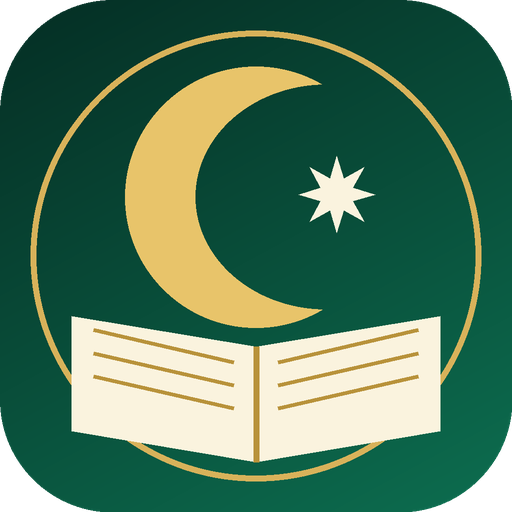
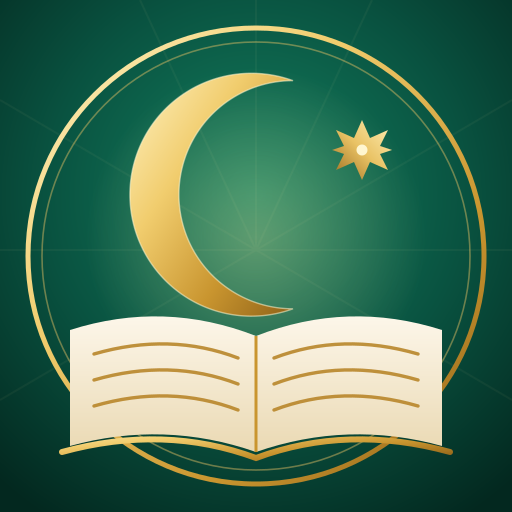
প্রগ্রেস বারের ভেতরে বাকি সময়ের কাউন্টডাউন; নতুন প্রাকৃতিক সূর্যোদয়/সূর্যাস্ত আইকন; লোগো-নামের বার সব পাতায় এক; নতুন প্রিমিয়াম অ্যাপ আইকন; ক্যাশ v139

diff --git a/widget.js b/widget.js
@@ -203,12 +203,12 @@
     ".drw-b{display:flex;align-items:center;gap:8px;margin-top:6px;font-size:11px;color:#3B4A55}" +
     ".drw-b span{white-space:nowrap}" +
     ".drw-p+.drw-r{margin-top:8px}" +
-    ".drw-bar{flex:1;height:8px;border-radius:4px;background:#C9D3DA;overflow:hidden}" +
-    ".drw-bar u{display:block;height:100%;background:linear-gradient(90deg,#16794c,#2bb583);border-radius:4px;text-decoration:none}" +
+    ".drw-bar{position:relative;flex:1;height:14px;border-radius:7px;background:#8FA39A;overflow:hidden}.drw-bar em{position:absolute;inset:0;display:flex;align-items:center;justify-content:center;font-style:normal;font-size:9px;font-weight:800;color:#fff;text-shadow:0 1px 2px rgba(0,0,0,.4);white-space:nowrap;line-height:1}" +
+    ".drw-bar u{display:block;height:100%;background:linear-gradient(90deg,#16794c,#2bb583);border-radius:7px;text-decoration:none}" +
     "@media (prefers-color-scheme:dark){.drw{background:#16211c;color:#e8f0ea}.drw-pin{background:#1f2e27;border-color:#2a4034;color:#9fd8bd}.drw-sun,.drw-time span,.drw-loc,.drw-upd,.drw-d,.drw-c i,.drw-b{color:#b3c9bb}.drw-c.on{background:#1f4a39}.drw-bar{background:#2a4034}}";
 
-  var SUNRISE = '<svg viewBox="0 0 24 24" aria-hidden="true"><path d="M12 2.2v2.6M5 5.6l1.8 1.8M19 5.6l-1.8 1.8M2.4 11.5H5M19 11.5h2.6" stroke="#FFB300" stroke-width="1.7" stroke-linecap="round" fill="none"/><circle cx="12" cy="13" r="5.5" fill="#FFC21A"/><path d="M2 15.5q2.5-2.2 5 0t5 0t5 0t5 0V22H2z" fill="#1E88E5"/><path d="M2 15.5q2.5-2.2 5 0t5 0t5 0t5 0" stroke="#8FD0FF" stroke-width="1" fill="none"/><path d="M9 18.3h6M10.5 20.5h3" stroke="#FFD97A" stroke-width="1.3" stroke-linecap="round"/></svg>';
-  var SUNSET = '<svg viewBox="0 0 24 24" aria-hidden="true"><path d="M12 2.2v2.6M5 5.6l1.8 1.8M19 5.6l-1.8 1.8M2.4 11.5H5M19 11.5h2.6" stroke="#FF7043" stroke-width="1.7" stroke-linecap="round" fill="none"/><circle cx="12" cy="13" r="5.5" fill="#FF6D3A"/><path d="M2 15.5q2.5-2.2 5 0t5 0t5 0t5 0V22H2z" fill="#1E88E5"/><path d="M2 15.5q2.5-2.2 5 0t5 0t5 0t5 0" stroke="#8FD0FF" stroke-width="1" fill="none"/><path d="M9 18.3h6M10.5 20.5h3" stroke="#FFB59A" stroke-width="1.3" stroke-linecap="round"/></svg>';
+  var SUNRISE = '<svg viewBox="0 0 24 24" aria-hidden="true"><path d="M12,4.2L12,7.2M6.3,9.8L4.2,7.7M17.7,9.8L19.8,7.7M4.5,12.8L2,11.9M19.5,12.8L22,11.9" stroke="#FFA000" stroke-width="1.7" stroke-linecap="round" fill="none"/><path d="M7,15.5A5,5 0 0,1 17,15.5Z" fill="#FFB300"/><path d="M9.2,15.5A2.8,2.8 0 0,1 14.8,15.5Z" fill="#FFE082"/><path d="M2,15.5H22" stroke="#8D6E63" stroke-width="1.4" stroke-linecap="round" fill="none"/><path d="M7,18.2H17M9.5,20.4H14.5" stroke="#FFCA28" stroke-width="1.3" stroke-linecap="round" fill="none"/></svg>';
+  var SUNSET = '<svg viewBox="0 0 24 24" aria-hidden="true"><path d="M12,4.2L12,7.2M6.3,9.8L4.2,7.7M17.7,9.8L19.8,7.7M4.5,12.8L2,11.9M19.5,12.8L22,11.9" stroke="#FF7043" stroke-width="1.7" stroke-linecap="round" fill="none"/><path d="M7,15.5A5,5 0 0,1 17,15.5Z" fill="#FF5722"/><path d="M9.2,15.5A2.8,2.8 0 0,1 14.8,15.5Z" fill="#FF8A65"/><path d="M2,15.5H22" stroke="#6D4C41" stroke-width="1.4" stroke-linecap="round" fill="none"/><path d="M7,18.2H17M9.5,20.4H14.5" stroke="#FF8A65" stroke-width="1.3" stroke-linecap="round" fill="none"/></svg>';
 
   function mount(el) {
     if (!el || el.getAttribute("data-drw")) return;
@@ -250,12 +250,14 @@
       var idx = Math.max(0, Math.min(4, shown));
       var bs = nf ? nf.start : s.ws[idx], be = nf ? nf.end : s.we[idx];
       var frac = Math.max(0, Math.min(1, (s.nowMin - bs) / Math.max(1, be - bs)));
+      var left = Math.ceil(Math.max(0, be - s.nowMin)), lh = Math.floor(left / 60), lm = left % 60;
+      var cd = "\u2212" + (lh > 0 ? bn(lh) + "ঘ " : "") + bn(lm) + "মি";
       var cells = "";
       for (var i = 0; i < 5; i++)
         cells += '<div class="drw-c' + (i === s.cur ? " on" : "") + '" data-i="' + i + '"><i>' + NAMES[i] + "</i><b>" + fmt(s.m[i]) + "</b></div>";
       el.innerHTML =
         '<div class="drw"><div class="drw-r"><span class="drw-sun">' + SUNRISE + "সূর্যোদয় " + fmt(s.sunrise) + '</span>' + '<button class="drw-pin" type="button" data-pin="1">📲 হোম স্ক্রিনে<br>বসান</button>' + '<span class="drw-sun">' + SUNSET + "সূর্যাস্ত " + fmt(s.sunset) + "</span></div>" +
-        '<div class="drw-b"><span>' + (nf ? nf.name + " শুরু " : "ওয়াক্ত শুরু ") + fmt(bs) + '</span><div class="drw-bar"><u style="width:' + (frac * 100).toFixed(1) + '%"></u></div><span>' + (nf ? "শেষ " : "ওয়াক্ত শেষ ") + fmt(be) + "</span></div>" +
+        '<div class="drw-b"><span>' + (nf ? nf.name + " শুরু " : "ওয়াক্ত শুরু ") + fmt(bs) + '</span><div class="drw-bar"><u style="width:' + (frac * 100).toFixed(1) + '%"></u><em>' + cd + '</em></div><span>' + (nf ? "শেষ " : "ওয়াক্ত শেষ ") + fmt(be) + "</span></div>" +
         '<div class="drw-p">' + cells + "</div>" +
         '<div class="drw-r"><div class="drw-time"><b>' + hh + ":" + mm + "</b><span>" + (now.getHours() < 12 ? "AM" : "PM") + "</span></div>" +
         '<div class="drw-en"><b>' + en + '</b><div class="drw-lr"><button class="drw-loc" type="button" data-loc="1">' + placeName(loc) + '</button><button class="drw-upd" type="button" data-upd="1">' + (updBusy ? "হচ্ছে…" : "আপডেট<br>লোকেশন") + "</button></div></div></div>" +

diff --git a/sw.js b/sw.js
@@ -1,7 +1,7 @@
-const V="dr-shell-v138";
+const V="dr-shell-v139";
 // ডেইলি রুকিয়া — অফলাইনে অ্যাপ খোলার জন্য। আয়াতের বড় ডেটা অ্যাপ নিজেই (Cache API "rs-…") জমা রাখে, তাই এখানে শুধু অ্যাপের কাঠামো।
 
-const SHELL=["./","index.html","style.css?v=35","app.js?v=42","home.js?v=3","alarm.js?v=4","amol.js?v=5","data/amol-guide.json?v=5","symptom.js?v=3","widget.js?v=13","boot.js?v=5","manifest.webmanifest","icons/icon-192.png","icons/icon-512.png","fonts/amiri-arabic-400-normal.woff2","fonts/amiri-arabic-700-normal.woff2","fonts/scheherazade-new-arabic-400-normal.woff2","fonts/scheherazade-new-arabic-700-normal.woff2","data/lame.min.js?v=1","data/hadith-norm.js?v=2","data/hadith.js?v=15"];
+const SHELL=["./","index.html","style.css?v=36","app.js?v=42","home.js?v=3","alarm.js?v=4","amol.js?v=5","data/amol-guide.json?v=5","symptom.js?v=3","widget.js?v=14","boot.js?v=5","manifest.webmanifest","icons/icon-192.png","icons/icon-512.png","fonts/amiri-arabic-400-normal.woff2","fonts/amiri-arabic-700-normal.woff2","fonts/scheherazade-new-arabic-400-normal.woff2","fonts/scheherazade-new-arabic-700-normal.woff2","data/lame.min.js?v=1","data/hadith-norm.js?v=2","data/hadith.js?v=15"];
 self.addEventListener("install",e=>{e.waitUntil(caches.open(V).then(c=>c.addAll(SHELL)).then(()=>self.skipWaiting()))});
 self.addEventListener("activate",e=>{e.waitUntil(caches.keys().then(ks=>Promise.all(ks.filter(k=>k.startsWith("dr-shell-")&&k!==V).map(k=>caches.delete(k)))).then(()=>self.clients.claim()))});
 self.addEventListener("fetch",e=>{

diff --git a/style.css b/style.css
@@ -18,10 +18,11 @@ button,input,select{font-family:inherit}
  .rs-bar{box-shadow:0 6px 22px rgba(0,0,0,.4)!important}
 }
 /* ---------- উপরের বার ---------- */
-.dr-top{position:sticky;top:0;z-index:30;padding:env(safe-area-inset-top) 0 0;background:linear-gradient(160deg,#052e24 0%,#0a5240 60%,#0d6650 100%);color:#fff;border-radius:0 0 30px 30px;box-shadow:0 1px 0 rgba(216,178,90,.55),0 10px 24px -10px rgba(5,46,36,.6)}
-body.is-home .dr-top{position:relative;padding-bottom:0;background:none;box-shadow:none;border-radius:0}
+.dr-top{position:sticky;top:0;z-index:30;padding:env(safe-area-inset-top) 0 0;background:none;box-shadow:none;border-radius:0;color:#fff}
+body.is-home .dr-top{position:relative}
 body.is-home #drWidget .drw{border-radius:24px 24px 0 0}
-body.is-home .dr-brand{box-sizing:border-box;width:calc(100% - 24px);max-width:660px;margin:0 auto;background:linear-gradient(160deg,#052e24 0%,#0a5240 60%,#0d6650 100%);border-radius:0 0 24px 24px;box-shadow:0 8px 18px -10px rgba(5,46,36,.6)}
+/* লোগো-নামের বার সব পাতায় হুবহু এক */
+.dr-brand{box-sizing:border-box;width:calc(100% - 24px);max-width:660px;margin:0 auto;background:linear-gradient(160deg,#052e24 0%,#0a5240 60%,#0d6650 100%);border-radius:0 0 24px 24px;box-shadow:0 8px 18px -10px rgba(5,46,36,.6)}
 #drWidget{padding:0 12px}
 .dr-menu{flex:none;width:44px;height:44px;border:0;border-radius:14px;background:rgba(255,255,255,.08);color:#fff;display:flex;align-items:center;justify-content:center;cursor:pointer;transition:background .15s}
 .dr-menu:active{background:rgba(255,255,255,.2)}

diff --git a/native/widget/kotlin/ClockWidget.kt b/native/widget/kotlin/ClockWidget.kt
@@ -221,6 +221,13 @@ class ClockWidget : AppWidgetProvider() {
             rv.setTextViewText(R.id.zz_we, (if (nf != null) "শেষ " else "ওয়াক্ত শেষ ") + Prayer.fmt(be, c.bnDigits))
             size(R.id.zz_ws, 11f); size(R.id.zz_we, 11f)
             rv.setProgressBar(R.id.zz_wbar, 1000, (frac * 1000).toInt(), false)
+            // বারের ভেতরে বাকি সময়: ১ ঘণ্টার বেশি হলে "−১ঘ ২৩মি", নইলে "−২৩মি"
+            val left = Math.ceil((be - s.nowMin).coerceAtLeast(0.0)).toInt()
+            val lh = left / 60
+            val lm = left % 60
+            val cd = if (lh > 0) "−" + Prayer.fmtNum(lh, c.bnDigits) + "ঘ " + Prayer.fmtNum(lm, c.bnDigits) + "মি" else "−" + Prayer.fmtNum(lm, c.bnDigits) + "মি"
+            rv.setTextViewText(R.id.zz_cd, cd)
+            size(R.id.zz_cd, 9f)
             val open = PendingIntent.getActivity(
                 ctx, 0, Intent(ctx, MainActivity::class.java), PendingIntent.FLAG_IMMUTABLE or PendingIntent.FLAG_UPDATE_CURRENT
             )

diff --git a/index.html b/index.html
@@ -12,7 +12,7 @@
 <meta name="mobile-web-app-capable" content="yes">
 <meta name="apple-mobile-web-app-capable" content="yes">
 <meta name="apple-mobile-web-app-title" content="Daily Ruqyah">
-<link rel="stylesheet" href="style.css?v=35">
+<link rel="stylesheet" href="style.css?v=36">
 </head>
 <body class="is-home">
 <header class="dr-top" id="drHero">
@@ -55,7 +55,7 @@
 <div class="rs-box" id="drAlarm" hidden></div>
 <div class="rs-box" id="drAmol" hidden></div>
 </main>
-<script src="widget.js?v=13"></script>
+<script src="widget.js?v=14"></script>
 <script src="symptom.js?v=3"></script>
 <script src="app.js?v=42"></script>
 <script src="home.js?v=3"></script>

diff --git a/native/widget/kotlin/Core.kt b/native/widget/kotlin/Core.kt
@@ -110,6 +110,8 @@ object Prayer {
     // ঘণ্টা (দশমিক) → মিনিট, নিকটতম মিনিটে
     fun minutes(h: Double): Int = (h * 60.0 + 0.5).toInt()
 
+    fun fmtNum(n: Int, bn: Boolean = true): String = if (bn) Bn.digits(n.toString()) else n.toString()
+
     // ১২-ঘণ্টা বাংলা ঘড়ি, AM/PM ছাড়া — যেমন ৪:৪৬
     fun fmt(min: Int, bn: Boolean = true): String {
         val m = ((min % 1440) + 1440) % 1440
